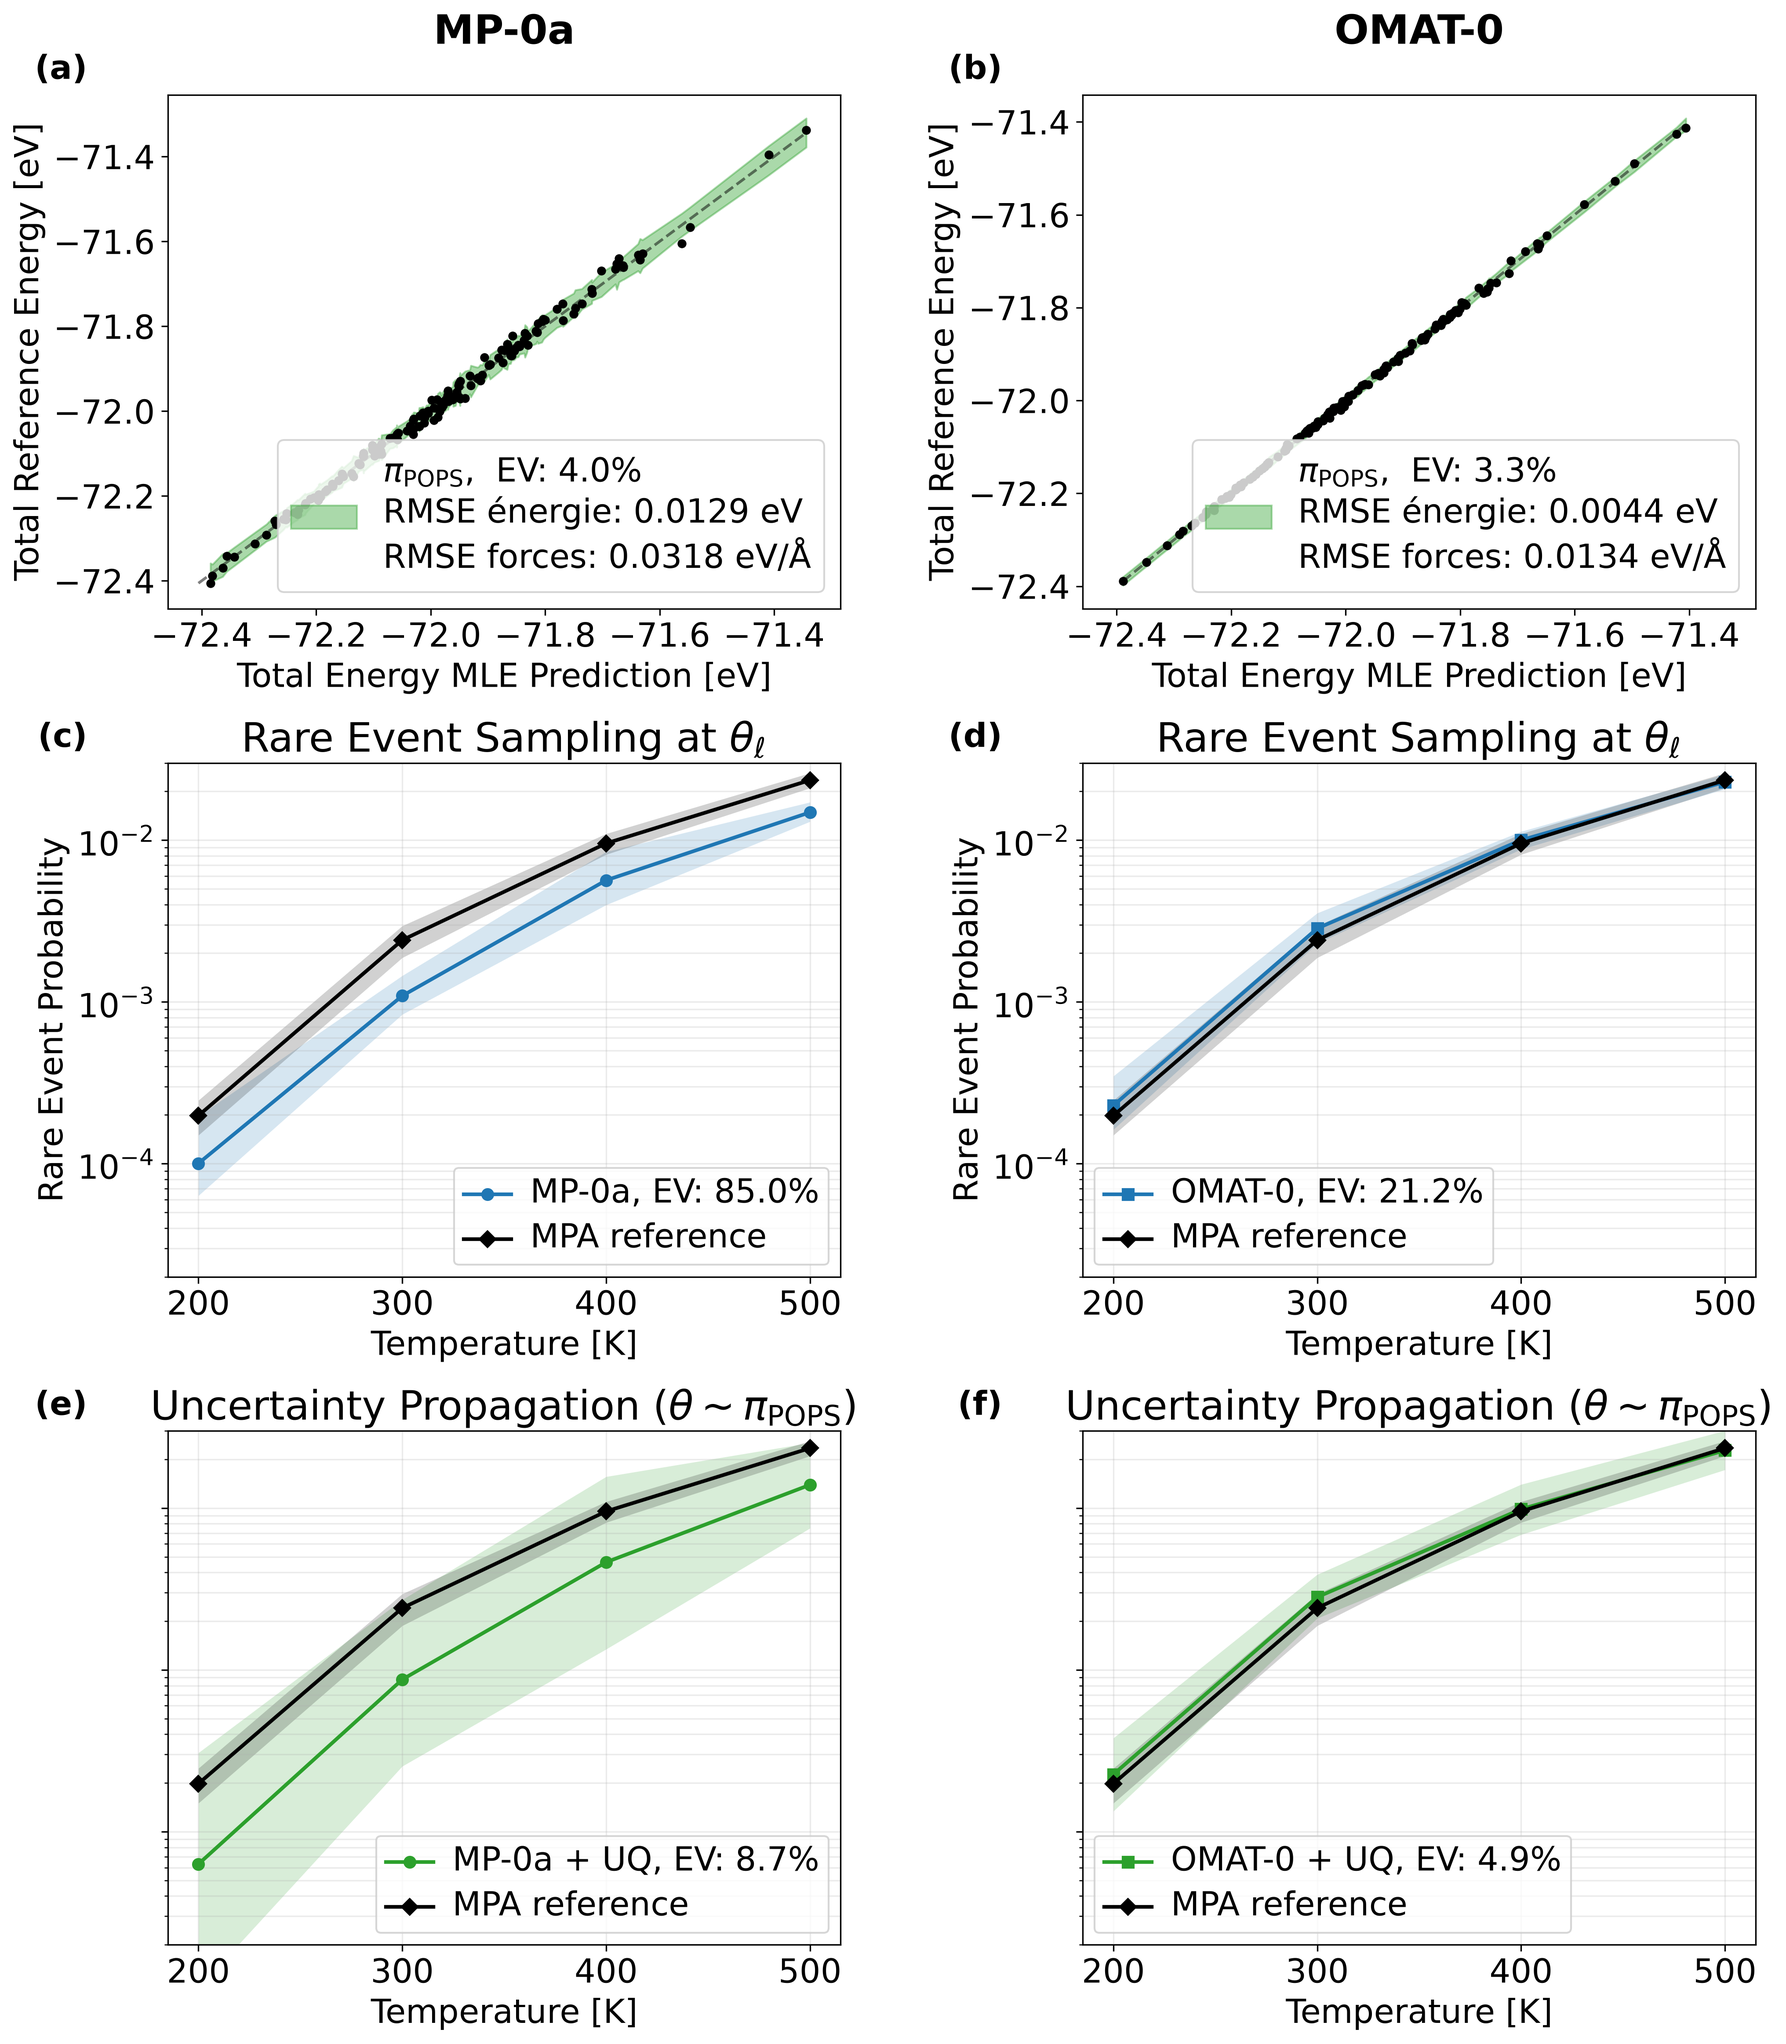
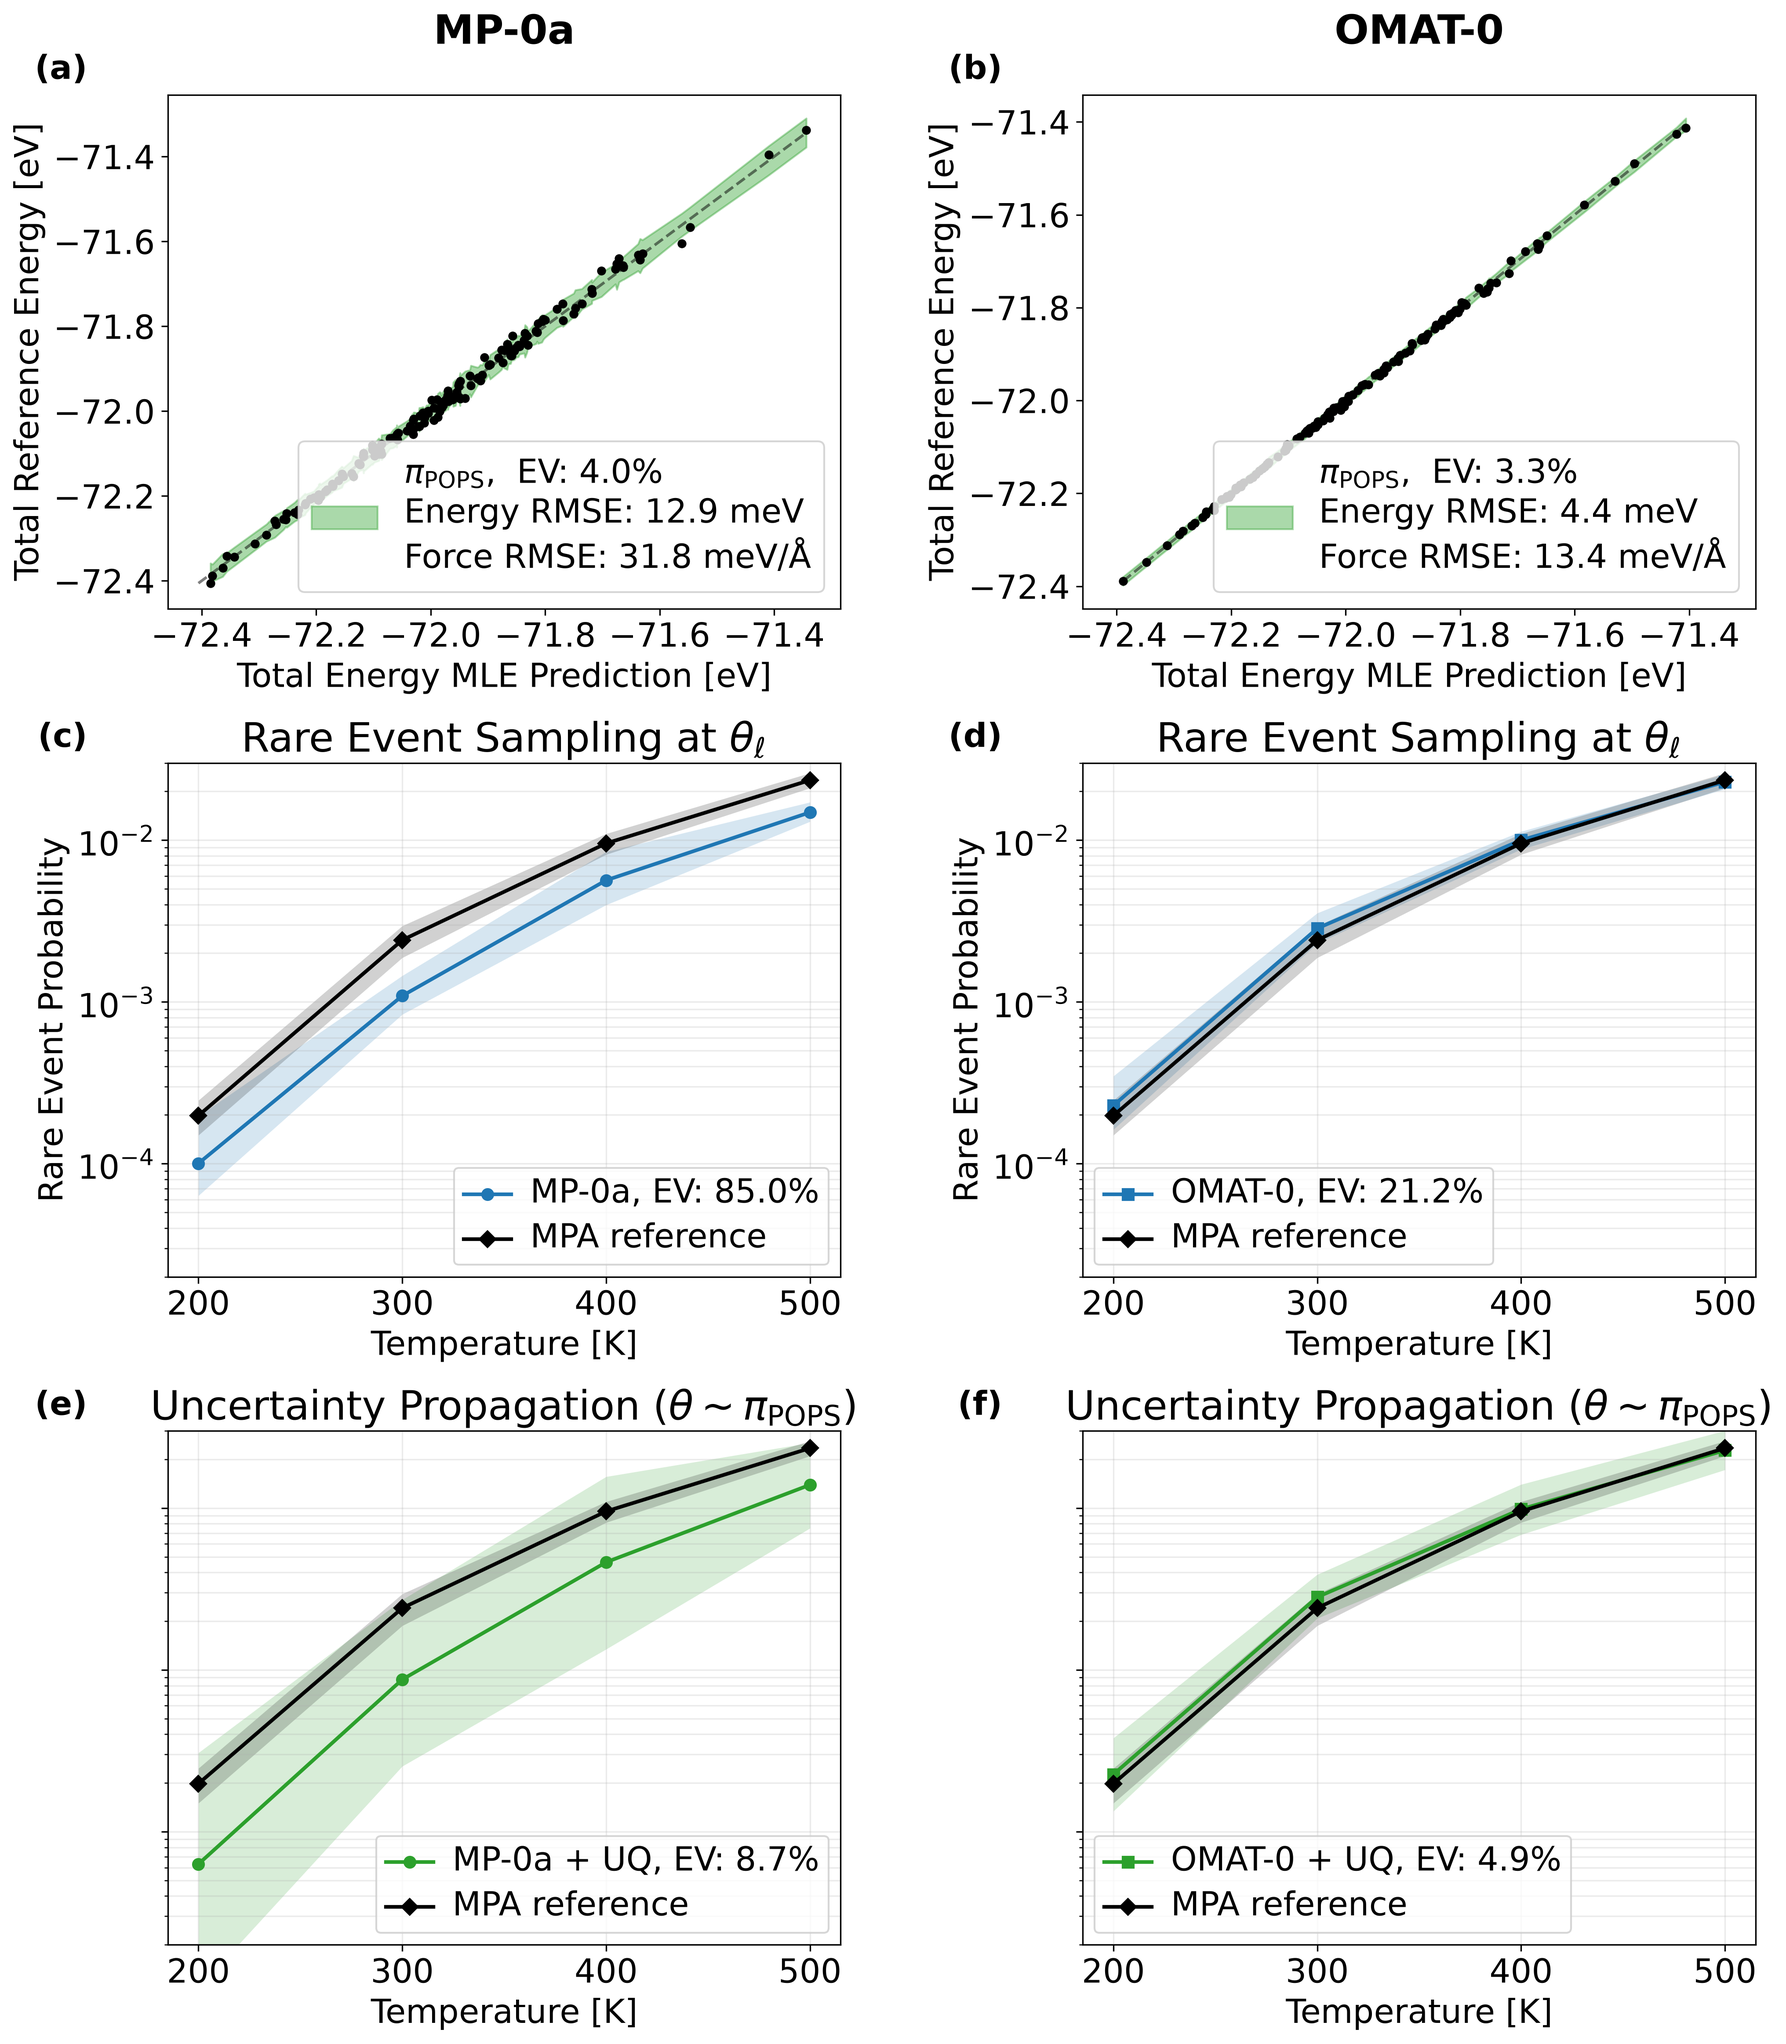
Show RMSE in English and meV

Changed region(s): [[0.1551, 0.2183, 0.4032, 0.2806], [0.7133, 0.2183, 0.9303, 0.2806], [0.6512, 0.2495, 0.6823, 0.2806]]

diff --git a/scripts/AMS_butane/plots/plot_energy_probability.py b/scripts/AMS_butane/plots/plot_energy_probability.py
@@ -468,8 +468,8 @@ for result, ax in ((results[1], axes[1, 1]), (results[0], axes[0, 1])):
     legend_label = ax.get_legend().get_texts()[0]
     legend_label.set_text(
         f"{legend_label.get_text()}\n"
-        f"RMSE énergie: {result['rmse_energy']:.4f} eV\n"
-        f"RMSE forces: {result['force_rmse']:.4f} eV/Å"
+        f"Energy RMSE: {1000 * result['rmse_energy']:.1f} meV\n"
+        f"Force RMSE: {1000 * result['force_rmse']:.1f} meV/Å"
     )
 vertical_grid = fig.add_gridspec(
     3,
